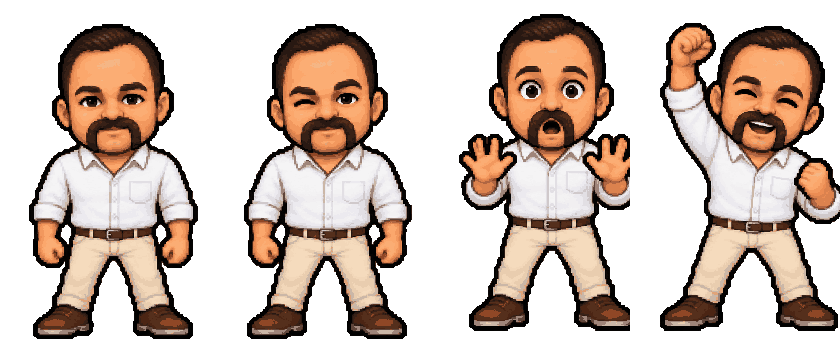
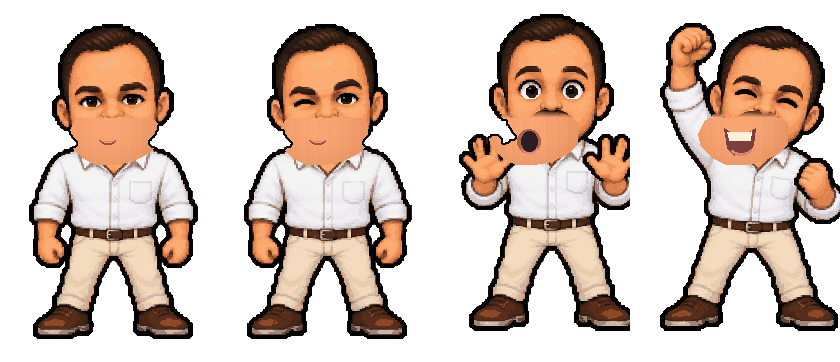
fix: clean Borhan face, align accessories, tighten golden pickups
* fix: give Borhan a bare upper lip and separately calibrated glasses

* feat: horseshoe variants and harder server-verified golden pickups

* chore: run one-time formatter on Borhan repair branch

* style: format Borhan repair

* chore: remove temporary Borhan formatter after successful run

* test: validate Borhan face and golden flyover in real browsers

* ci: deploy score Worker when shared golden rules change

* chore: remove temporary browser workflow after successful desktop/mobile smoke

---------

diff --git a/src/game/art.ts b/src/game/art.ts
@@ -341,47 +341,55 @@ function raminAccessory(c: Ctx, variant: RaminVariant) {
   rect(c, 146, 62, 12, 4, '#f7d58c');
 }
 
-/** Borhan's three exclusive 72×40 pixel masks: chevron, handlebar, horseshoe.
- * Cosmetic only. Same physical image bounds and landing rules as Ramin.
+/** Three mustaches inspired by Borhan's original horseshoe silhouette.
+ * The game retains the same three style indices and projectile hit logic.
  */
 function borhanMustache(c: Ctx, style: number, golden = false): void {
-  const tones = golden ? ['#694214', '#bd801e', '#ffe38b'] : ['#160f13', '#402522', '#9c644a'];
-  for (let x = 2; x < 70; x++) {
-    const offset = Math.abs(x - 35.5);
-    const t = offset / 34;
-    let center = 15,
-      thick = 8;
-    if (style === 0) {
-      // Broad, pointed chevron with downward sweeping wings.
-      center = 12 + 11 * t;
-      thick = 8 + 3 * (1 - t) - 7 * Math.pow(t, 3);
-    } else if (style === 1) {
-      // Thin upward-twirled handlebar.
-      center = 15 - 8 * Math.pow(t, 3);
-      thick = 4 + 3 * (1 - t);
-    } else {
-      // Dense horseshoe with drooping ends.
-      center = 14 + 13 * Math.pow(t, 3);
-      thick = 8 + 3 * t - 5 * Math.pow(t, 4);
-    }
-    if (offset < 1.5) thick *= 0.55; // Natural central parting.
-    const top = Math.max(1, Math.round(center - thick / 2));
-    const bottom = Math.min(37, Math.round(center + thick / 2));
+  const models = [
+    { halfWidth: 25, body: 6, drop: 8 },
+    { halfWidth: 30, body: 8, drop: 15 },
+    { halfWidth: 33, body: 10, drop: 21 },
+  ] as const;
+  const model = models[style];
+  if (!model) throw new RangeError('Unknown Borhan mustache style');
+  const shades = golden ? ['#765018', '#c78b27', '#ffe9a2'] : ['#211411', '#4c2d20', '#956249'];
+  for (let x = 2; x < MUSTACHE_WIDTH - 2; x++) {
+    const t = Math.abs(x - 35.5) / model.halfWidth;
+    if (t > 1) continue;
+    const top = Math.round(9 + 5 * t);
+    const thickness = model.body + 2 * (1 - t);
+    const leg = model.drop * Math.pow(Math.max(0, (t - 0.45) / 0.55), 1.35);
+    const bottom = Math.min(MUSTACHE_HEIGHT - 2, Math.round(top + thickness + leg));
     for (let y = top; y <= bottom; y++) {
-      const outline = y === top || y === bottom || x < 4 || x > 67;
-      const shine = !outline && y <= top + 2 && x % 11 !== 0;
-      rect(c, x, y, 1, 1, tones[outline ? 0 : shine ? 2 : 1]);
+      const border = y === top || y === bottom || t > 0.96;
+      const shine = !border && y <= top + 2 && (x + y) % 8 !== 0;
+      rect(c, x, y, 1, 1, shades[border ? 0 : shine ? 2 : 1]);
     }
   }
-  if (style === 1) {
-    // Boxy curled tips are deliberately different from Ramin's curled silhouette.
-    for (const side of [0, 1]) {
-      const sx = side ? 64 : 4;
-      rect(c, sx, 2, 4, 8, tones[0]);
-      rect(c, sx + (side ? -2 : 2), 3, 3, 5, tones[1]);
-      rect(c, sx, 2, 2, 3, tones[2]);
-    }
+}
+
+/** Borhan's eyes are 8px higher and slightly narrower than Ramin's.
+ * Preserve the old Ramin overlays and transform only the Borhan glasses.
+ */
+function borhanAccessory(c: Ctx, variant: RaminVariant): void {
+  if (variant !== 'round' && variant !== 'sunglasses') {
+    raminAccessory(c, variant);
+    return;
   }
+  const scratch = document.createElement('canvas');
+  scratch.width = 210;
+  scratch.height = 362;
+  const source = scratch.getContext('2d');
+  if (!source) throw new Error('Cannot draw Borhan accessory');
+  source.imageSmoothingEnabled = false;
+  raminAccessory(source, variant);
+  c.save();
+  c.imageSmoothingEnabled = false;
+  c.translate(105, 102);
+  c.scale(0.9, 0.88);
+  c.translate(-105, -110);
+  c.drawImage(scratch, 0, 0);
+  c.restore();
 }
 
 function mustache(c: Ctx, style: number, golden = false) {
@@ -478,8 +486,10 @@ export function createArt(scene: Phaser.Scene) {
     makeCanvas(scene, `tree-back-${i}`, 96, 220, (ctx) => treeBack(ctx, i));
     makeCanvas(scene, `tree-front-${i}`, 96, 220, (ctx) => treeFront(ctx, i));
   }
-  for (const variant of RAMIN_VARIANTS)
+  for (const variant of RAMIN_VARIANTS) {
     makeCanvas(scene, `ramin-acc-${variant}`, 210, 362, (ctx) => raminAccessory(ctx, variant));
+    makeCanvas(scene, `borhan-acc-${variant}`, 210, 362, (ctx) => borhanAccessory(ctx, variant));
+  }
   makeCanvas(scene, 'ramin-emote-hand', 35, 40, raminEmoteHand);
   makeCanvas(scene, 'mist', 480, 90, mist);
   makeCanvas(scene, 'forest-front', 480, 80, forestFront);

diff --git a/shared/goldenRules.js b/shared/goldenRules.js
@@ -3,7 +3,7 @@
  * A fixed schedule provides equal opportunity without trusting client-supplied targets.
  */
 export const GOLDEN_SPAWN_MS = Object.freeze([7000, 14000, 21000, 28000, 35000]);
-export const GOLDEN_FLIGHT_MS = 2500;
+export const GOLDEN_FLIGHT_MS = 1800;
 export const GOLDEN_REQUIRED = 3;
 export const GOLDEN_PERFECT_BONUS = 350;
 const MOBILE_LANES = [344, 368, 326, 358, 338];
@@ -20,14 +20,14 @@ export function goldenPosition(index, elapsedMs, portrait) {
   const leftToRight = index % 2 === 0;
   const x = leftToRight ? 65 + (width - 130) * progress : width - 65 - (width - 130) * progress;
   const lanes = portrait ? MOBILE_LANES : DESKTOP_LANES;
-  return { x, y: lanes[index] - Math.sin(progress * Math.PI) * 18 };
+  return { x, y: lanes[index] - Math.sin(progress * Math.PI) * 25 + Math.sin(progress * Math.PI * 3) * 9 };
 }
 
-/** Elliptical touch zone is generous enough for a finger but tied to the visible sprite. */
+/** Smaller ellipse is matched to the tighter flying sprite, for both client and server. */
 export function goldenHit(index, elapsedMs, aim, portrait) {
   const position = goldenPosition(index, elapsedMs, portrait);
   if (!position || !aim || !Number.isFinite(aim.x) || !Number.isFinite(aim.y)) return false;
-  const rx = portrait ? 48 : 42;
-  const ry = portrait ? 32 : 27;
+  const rx = portrait ? 34 : 30;
+  const ry = portrait ? 23 : 20;
   return ((aim.x - position.x) / rx) ** 2 + ((aim.y - position.y) / ry) ** 2 <= 1;
 }

diff --git a/src/game/accessories.ts b/src/game/accessories.ts
@@ -1,18 +1,27 @@
 import Phaser from 'phaser';
 import type { RaminVariant } from '../logic/variety';
+import { getSelectedCharacter, type CharacterId } from './characterChoice';
 
-/** Full-frame accessory images share Ramin's frame dimensions and origin.
- * Depth 22 sits above his sprite (20) but behind the tree bark (28).
+/** Full-frame overlays inherit hero transform; different face geometry is
+ * calibrated in the two different accessory textures.
  */
 export function makeAccessory(scene: Phaser.Scene): Phaser.GameObjects.Image {
-  return scene.add.image(-300, -300, 'ramin-acc-normal').setDepth(22).setVisible(false);
+  const character = getSelectedCharacter();
+  return scene.add
+    .image(-300, -300, character + '-acc-normal')
+    .setData('character', character)
+    .setDepth(22)
+    .setVisible(false);
 }
+
 export function selectAccessory(image: Phaser.GameObjects.Image, variant: RaminVariant): void {
+  const character = (image.getData('character') as CharacterId) || 'ramin';
   image
-    .setTexture('ramin-acc-' + variant)
+    .setTexture(character + '-acc-' + variant)
     .setData('costume', variant)
     .setVisible(false);
 }
+
 export function syncAccessory(
   hero: Phaser.GameObjects.Sprite,
   image: Phaser.GameObjects.Image,

diff --git a/src/logic/__tests__/goldenRules.test.ts b/src/logic/__tests__/goldenRules.test.ts
@@ -12,6 +12,7 @@ describe('deterministic golden collectible', () => {
   it('has five scheduled flights and a single three-pickup charge', () => {
     expect(GOLDEN_SPAWN_MS).toEqual([7000, 14000, 21000, 28000, 35000]);
     expect(GOLDEN_REQUIRED).toBe(3);
+    expect(GOLDEN_FLIGHT_MS).toBe(1800);
     expect(GOLDEN_PERFECT_BONUS).toBe(350);
   });
   it.each([false, true])('uses exact position and touch geometry, portrait=%s', (portrait) => {
@@ -20,6 +21,9 @@ describe('deterministic golden collectible', () => {
       const point = goldenPosition(index, t, portrait);
       expect(point).not.toBeNull();
       expect(goldenHit(index, t, point!, portrait)).toBe(true);
+      expect(goldenHit(index, t, { x: point!.x + 10, y: point!.y }, portrait)).toBe(true);
+      expect(goldenHit(index, t, { x: point!.x + 40, y: point!.y }, portrait)).toBe(false);
+      expect(goldenHit(index, t, { x: point!.x, y: point!.y + 27 }, portrait)).toBe(false);
       expect(goldenHit(index, t, { x: point!.x + 100, y: point!.y }, portrait)).toBe(false);
       expect(goldenPosition(index, GOLDEN_SPAWN_MS[index] - 1, portrait)).toBeNull();
       expect(

diff --git a/src/game/goldenFlyer.ts b/src/game/goldenFlyer.ts
@@ -6,6 +6,7 @@ import {
   GOLDEN_SPAWN_MS,
 } from '../../shared/goldenRules.js';
 import { recordCompetitiveGoldenPickup } from '../platform/competitiveScores';
+import { mustacheTexture } from './characterChoice';
 
 /** Cosmetic and input presentation only; authoritative flight rules live in shared/. */
 export class GoldenFlyer {
@@ -30,12 +31,12 @@ export class GoldenFlyer {
     this.notice = notice;
     this.onChargeChange = onChargeChange;
     this.glow = scene.add
-      .circle(-100, -100, portrait ? 48 : 41, 0xffd84e, 0.2)
+      .circle(-100, -100, portrait ? 39 : 34, 0xffd84e, 0.2)
       .setDepth(63)
       .setVisible(false);
     this.sprite = scene.add
-      .image(-100, -100, 'stache-gold')
-      .setDisplaySize(portrait ? 94 : 84, portrait ? 53 : 45)
+      .image(-100, -100, mustacheTexture(1, true))
+      .setDisplaySize(portrait ? 80 : 74, portrait ? 44 : 40)
       .setDepth(64)
       .setVisible(false);
     scene.tweens.add({

diff --git a/src/game/characterChoice.ts b/src/game/characterChoice.ts
@@ -21,7 +21,11 @@ export function characterName(character: CharacterId = currentCharacter): string
 }
 
 /** Visual-only projectile mapping; scoring keeps the same three style indices. */
-export const BORHAN_MUSTACHE_NAMES = ['CHEVRON', 'HANDLEBAR', 'HORSESHOE'] as const;
+export const BORHAN_MUSTACHE_NAMES = [
+  'SHORT HORSESHOE',
+  'CLASSIC HORSESHOE',
+  'HEAVY HORSESHOE',
+] as const;
 export function mustacheTexture(style: number, gold = false): string {
   if (!Number.isInteger(style) || style < 0 || style > 2) {
     throw new RangeError('Unknown mustache style');

diff --git a/src/logic/__tests__/characterChoice.test.ts b/src/logic/__tests__/characterChoice.test.ts
@@ -26,7 +26,11 @@ describe('pre-round hero selection', () => {
   });
   it('maps three distinct Borhan visual styles without changing scoring indices', () => {
     setSelectedCharacter('borhan');
-    expect(BORHAN_MUSTACHE_NAMES).toHaveLength(3);
+    expect(BORHAN_MUSTACHE_NAMES).toEqual([
+      'SHORT HORSESHOE',
+      'CLASSIC HORSESHOE',
+      'HEAVY HORSESHOE',
+    ]);
     expect([0, 1, 2].map((index) => mustacheTexture(index))).toEqual([
       'borhan-stache-0',
       'borhan-stache-1',

diff --git a/docs/GOLDEN_MUSTACHE.md b/docs/GOLDEN_MUSTACHE.md
@@ -4,11 +4,11 @@ The collectible golden mustache is **not** Ramin's existing rare golden variant.
 
 ## Rules (45-second active round)
 
-- Five **public, deterministic** 2.5-second flyovers start at 7, 14, 21, 28 and 35 seconds. Alternating directions and layout-specific lanes have exactly the same schedule for all players.
-- Tap the golden mustache while it is in flight. A pickup never launches an ordinary shot, resets the combo or grants direct points.
+- Five **public, deterministic** 1.8-second flyovers start at 7, 14, 21, 28 and 35 seconds. Alternating directions and layout-specific lanes have exactly the same schedule for all players.
+- Tap the golden mustache while it is in flight. The flight is 28% faster, follows a vertical weave, and has a tighter touch ellipse (portrait 34×23 px; desktop 30×20 px). A pickup never launches an ordinary shot, resets the combo or grants direct points.
 - Exactly **three different successful pickups** charge **one** golden projectile. Further flyovers are disabled after charging.
 - The middle (slot **2**) mustache in the bottom selector turns golden and pulses. Existing selection remains unchanged, and the golden shot is **not** armed automatically — even if slot 2 was already selected before the third pickup. To equip it, explicitly tap/click slot 2 (or press 2 on a keyboard) after charging. Switch back to slot 1 or 3 at any time to save the charge. Ordinary shots do not spend it.
-- After equipping gold, the next shot at Ramin consumes the one-use golden projectile, including a GOOD or MISS. The middle slot returns to the standard style after consumption.
+- After equipping gold, the next shot at the chosen hero consumes the one-use golden projectile, including a GOOD or MISS. The middle slot returns to the standard style after consumption.
 - Only a PERFECT golden projectile grants **+350 bonus** in addition to the usual hit, combo and Ramin-variant rewards. GOOD/MISS consume the charge with **zero golden bonus**.
 - The golden projectile still lands at the actual pointer coordinates at impact, with normal GOOD/PERFECT hit boxes. No auto snap.
 - Progress is per-round, not a wallet asset. No NFT, NFIVE token or financial rewards.

diff --git a/README.md b/README.md
@@ -6,7 +6,7 @@ Pixel-art arcade game built with **Phaser 3, TypeScript, and Vite**.
 
 ## Gameplay
 
-Choose **Ramin or Borhan** in a six-second pre-round selection (1/2 on desktop, tap either hero on mobile), then throw a mustache at the precise upper-lip location while the chosen hero peeks from three trees. The current selection carries into the result screen and can be changed before every replay. **Borhan has his own three mustache silhouettes** (chevron, handlebar and horseshoe), plus a matching golden special; these use the same scoring/hit zones as Ramin.
+Choose **Ramin or Borhan** in a six-second pre-round selection (1/2 on desktop, tap either hero on mobile), then throw a mustache at the precise upper-lip location while the chosen hero peeks from three trees. The current selection carries into the result screen and can be changed before every replay. **Borhan appears with a clean upper lip and separately aligned glasses.** **Borhan has his own three mustache silhouettes** (short, classic and heavy horseshoe), plus a matching golden special; these use the same scoring/hit zones as Ramin.
 
 - **45 seconds** with distinct sunset (0–15 s), twilight (15–30 s), and night (30–45 s) stages.
 - The projectile scores **at impact**; the sticker stays exactly where you aimed (no automatic correction).
@@ -21,7 +21,7 @@ Choose **Ramin or Borhan** in a six-second pre-round selection (1/2 on desktop, 
 
 ## Golden Mustache (score bonus)
 
-Five golden mustaches fly across each 45-second round. Catch three to turn the **middle mustache in the selector** golden. Tap/click that middle slot
+Five golden mustaches fly across each 45-second round. They now cross in 1.8 seconds with a slight vertical weave and smaller collectible hit zones, validated identically on client and server. Catch three to turn the **middle mustache in the selector** golden. Tap/click that middle slot
 (or press 2) to equip the special shot; ordinary shots with slots 1 and 3 preserve it.
 Even if slot 2 was already selected, you must actively select it again after charging.
 Only a PERFECT hit with the equipped golden projectile earns **+350 points**, in addition to
